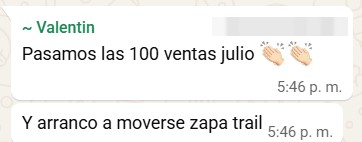
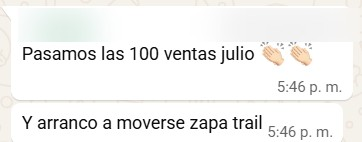
Testimonios: nombres de clientes ocultos
Claude-Session: https://claude.ai/code/session_011cR66XdfPcXMXiUSVAJZ7n

Changed region(s): [[0.0608, 0.1408, 0.2735, 0.3099]]

diff --git a/index.html b/index.html
@@ -318,11 +318,11 @@
     <div class="testis">
       <div class="testi"><q>Cuadruplicamos las ventas en un mes, invirtiendo lo mismo que el mes anterior y sin tanto contenido nuevo. Flor, real que SOS la uno.</q><span>Cliente ecommerce</span></div>
       <div class="testi"><q>La verdad una genialidad lo que hiciste y lograste. Desde el lunes a hoy ingresaron 11 ventas. ¡Sos una capa!</q><span>Cliente de moda</span></div>
-      <div class="testi"><q>Desde hace meses que no me cae una venta de estos productos porque los anuncios no los lograba hacer funcionar... ¡Arrancamos bien! 🤍</q><span>Javo</span></div>
+      <div class="testi"><q>Desde hace meses que no me cae una venta de estos productos porque los anuncios no los lograba hacer funcionar... ¡Arrancamos bien! 🤍</q><span>Cliente ecommerce</span></div>
       <div class="testi"><q>Tremenda la web este finde y la del pasado. Fue lejos la mejor semana de todas.</q><span>Cliente ecommerce</span></div>
-      <div class="testi"><q>En cantidad de ventas aumentamos un 24%. ¡Locuraaaa! Siii viene re bien.</q><span>Julieta</span></div>
+      <div class="testi"><q>En cantidad de ventas aumentamos un 24%. ¡Locuraaaa! Siii viene re bien.</q><span>Cliente tienda online</span></div>
       <div class="testi"><q>Se está vendiendo re bien en la página. Hoy fue una cosa increíble. ¡Bah, viene siendo!</q><span>Cliente tienda online</span></div>
-      <div class="testi"><q>Ayer y hoy se movió un montón. Muy buen comienzo de mes.</q><span>Lola Collado</span></div>
+      <div class="testi"><q>Ayer y hoy se movió un montón. Muy buen comienzo de mes.</q><span>Cliente de moda</span></div>
     </div>
   </div>
 </section>
